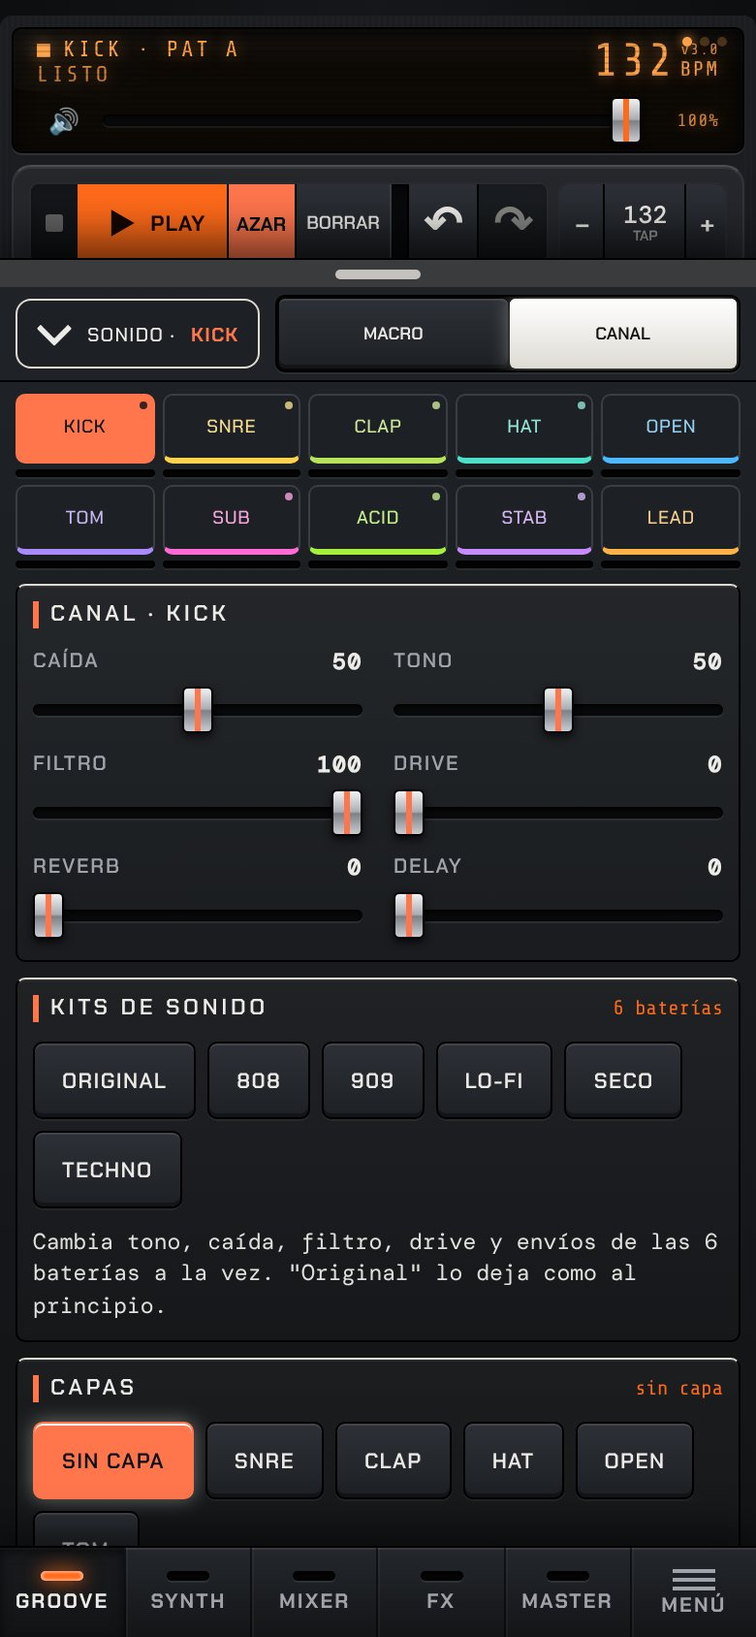
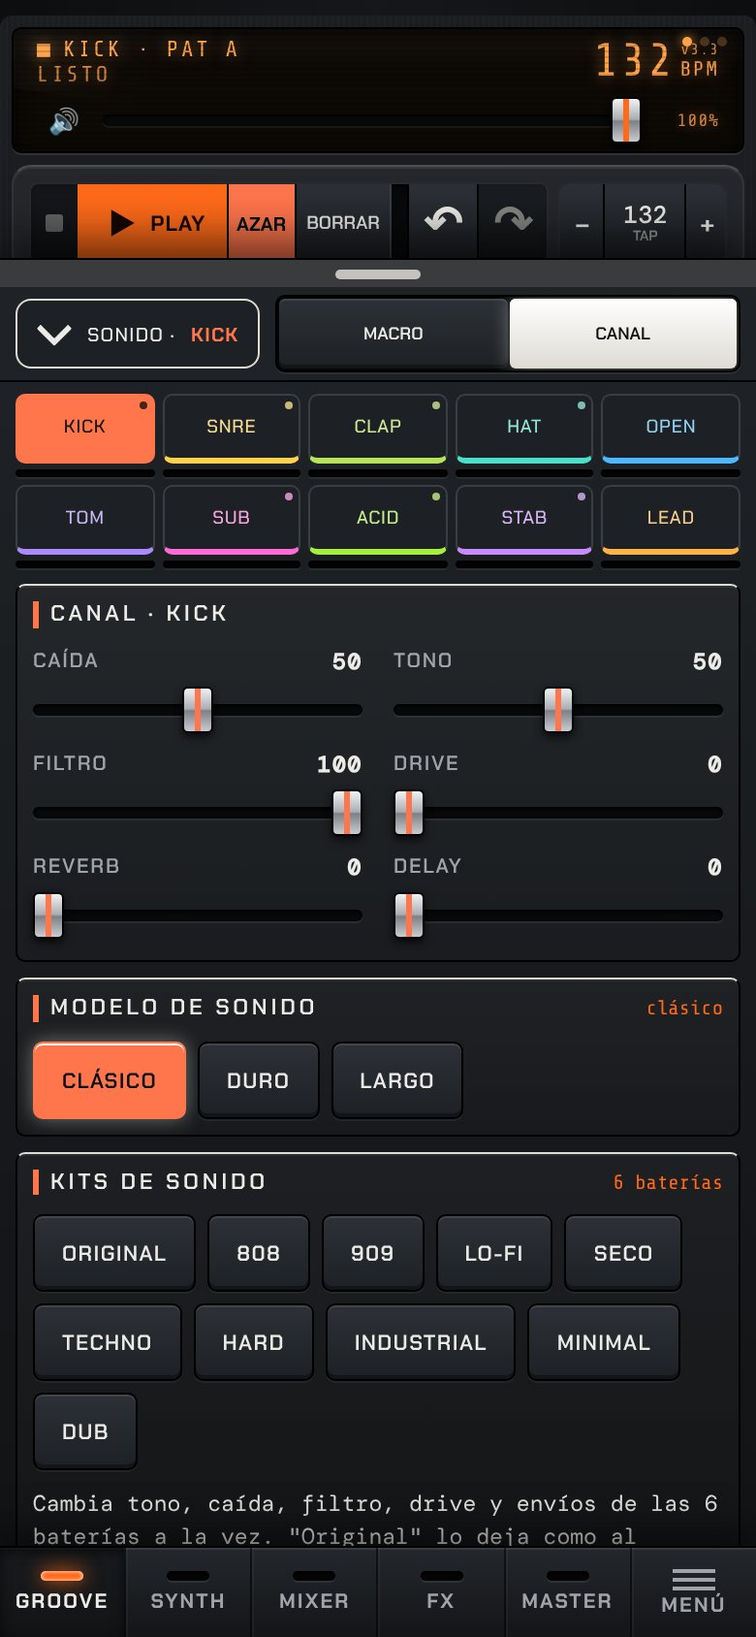
v3.3: modelos de sonido por batería, 4 kits y 12 presets nuevos
- Modelo de sonido en Canal: Kick Clásico/Duro/Largo, Snare
  Clásico/Rimshot, Hat y Open Metal/Ruido, Tom/Cencerro.
- Kits Hard, Industrial, Minimal y Dub (eligen también el modelo).
- Tres presets nuevos para Sub, Acid, Lead y Stab.
- Clave md por canal con migración en fixC; los sonidos de siempre
  no cambian.

Claude-Session: https://claude.ai/code/session_014KBobpF2M55M86nWwyjQnt

diff --git a/app.js b/app.js
@@ -16,6 +16,8 @@ const mf=m=>440*Math.pow(2,(m-69)/12);
 const clamp=(v,a,b)=>Math.max(a,Math.min(b,v));
 const mk=()=>fixP({d:CH.slice(0,6).map(()=>new Array(16).fill(0)),s:new Array(16).fill(-1),sv:new Array(16).fill(2)});
 const NST=32;
+/* v3.3 modelos de sonido de cada batería (clave md del canal; 0 = el sonido de siempre) */
+const MDL=[['Clásico','Duro','Largo'],['Clásico','Rimshot'],['Clásico'],['Metal','Ruido'],['Metal','Ruido'],['Tom','Cencerro']];
 const ok16=(a,f,lo,hi)=>Array.from({length:NST},(_,i)=>{const v=a&&a[i];return typeof v==='number'&&isFinite(v)?Math.max(lo,Math.min(hi,Math.round(v))):f});
 /* per-step extras for all 7 tracks: accent (0/1), ratchet (1-4), nudge (-2..2 eighths of a step). Todas las filas guardan 32 pasos (proyectos de 16 se amplían solos); solo ACID puede usar LEN hasta 32 */
 function fixP(p){p.d=Array.from({length:6},(_,r)=>ok16(p.d&&p.d[r],0,0,3));p.s=ok16(p.s,-1,-1,24);p.sv=ok16(p.sv,2,1,3);
@@ -67,7 +69,7 @@ try{const r=localStorage.getItem('pulsostudio1')||localStorage.getItem('pocketsu
 if(!SKINS.some(s=>s[0]===S.skin))S.skin='stylo';
 P.forEach(fixP);fixSong();C.forEach(fixC);if(!['macro','canal'].includes(S.snd))S.snd='canal';S.dockOpen=!!S.dockOpen;if(!['interactive','balanced','playback'].includes(S.lat))S.lat='balanced';if(!XFD[S.xfade])S.xfade='normal';S.lights=!!S.lights;S.wbit=S.wbit===24?24:16;document.documentElement.dataset.lights=S.lights?'1':'0';S.dockH=Number.isFinite(+S.dockH)&&S.dockH>0?clamp(Math.round(S.dockH),110,900):0;
 S.meq=Object.assign({},EQD,S.meq);
-function fixC(c,i){c.len=clamp(Math.round(+c.len)||16,1,i===ACI?32:16);const l=Math.round(+c.ly);c.ly=i<SUBI&&l>=0&&l<SUBI&&l!==i?l:-1;c.lo=i>=SUBI&&[12,-12,7,24].includes(Math.round(+c.lo))?Math.round(+c.lo):0;c.lv=clamp(Number.isFinite(+c.lv)?+c.lv:.4,0,1)}
+function fixC(c,i){c.len=clamp(Math.round(+c.len)||16,1,i===ACI?32:16);const l=Math.round(+c.ly);c.ly=i<SUBI&&l>=0&&l<SUBI&&l!==i?l:-1;c.lo=i>=SUBI&&[12,-12,7,24].includes(Math.round(+c.lo))?Math.round(+c.lo):0;c.lv=clamp(Number.isFinite(+c.lv)?+c.lv:.4,0,1);const m=Math.round(+c.md);c.md=i<SUBI&&m>0&&m<MDL[i].length?m:0}
 function fixSong(){const g=S.song||{};S.song={on:!!g.on,len:[8,16,32].includes(g.len)?g.len:16,bars:ok16x32(g.bars)};
   const L=S.lanes||{};S.lanes={};LID.forEach(id=>{const x=L[id]||{},d=LANED();S.lanes[id]={bpm:clamp(+x.bpm||120,40,240),loop:[1,2,4,8].includes(x.loop)?x.loop:4,vol:typeof x.vol==='number'?clamp(x.vol,0,1):.8,on:Array.from({length:32},(_,i)=>x.on&&x.on[i]?1:0)}})}
 function ok16x32(a){return Array.from({length:32},(_,i)=>{const v=a&&a[i];return typeof v==='number'&&v>=-1&&v<=3?Math.round(v):(a?-1:SONGD.bars[i])})}
@@ -207,30 +209,40 @@ function choke(v,t){if(!v||v.end<=t)return;v.gs.forEach(g=>{const p=g.gain;if(p.
   v.srcs.forEach(s=>{try{s.stop(t+.03)}catch(e){}});v.end=t}
 const HATR=[2,3,4.16,5.43,6.79,8.21];
 /* one synth graph, used live (fallback) and to pre-render cached voices; lv: 0-2 velocity, 3 accent */
-function synth(x,out,i,t,lv,nz,srcs,pp){const m=.6+pp.tn,dm=.5+pp.dc,pv=1+(lv-2)*.012,bv=[.72,.86,1,1.22][lv];
+function synth(x,out,i,t,lv,nz,srcs,pp){const md=pp.md|0,m=.6+pp.tn,dm=.5+pp.dc,pv=1+(lv-2)*.012,bv=[.72,.86,1,1.22][lv];
   const G=()=>x.createGain(),F=(ty,f,q)=>{const b=x.createBiquadFilter();b.type=ty;b.frequency.value=f;if(q!=null)b.Q.value=q;return b};
   const O=(ty,stp)=>{const o=x.createOscillator();if(ty)o.type=ty;o._stp=stp;srcs.push(o);return o};
   const N=stp=>{const z=x.createBufferSource();z.buffer=nz;z.loop=true;z._stp=stp;z._off=Math.random()*.9;srcs.push(z);return z};
   const E=(g,pk,len,at)=>{g.gain.setValueAtTime(0,t);g.gain.linearRampToValueAtTime(pk,t+(at||.0015));g.gain.exponentialRampToValueAtTime(.001,t+len)};
   let len;
-  if(i===0){len=.42*dm;const f0=42*m*pv,o=O('',len+.05),g=G();
-    o.frequency.setValueAtTime(f0*4.4,t);o.frequency.exponentialRampToValueAtTime(f0*1.8,t+.011);o.frequency.exponentialRampToValueAtTime(f0,t+.075+.06*dm);
+  if(i===0){/* bombo: [barrido inicial, barrido medio, t1, t2, largo, clic] por modelo: clásico, duro (más pegada y clic), largo (más grave y con cola) */
+    const K=[[4.4,1.8,.011,.075,.42,.42,42],[6,2.1,.006,.045,.34,.75,44],[3.4,1.5,.016,.13,.8,.3,37]][md]||[4.4,1.8,.011,.075,.42,.42,42];len=K[4]*dm;const f0=K[6]*m*pv,o=O('',len+.05),g=G();
+    o.frequency.setValueAtTime(f0*K[0],t);o.frequency.exponentialRampToValueAtTime(f0*K[1],t+K[2]);o.frequency.exponentialRampToValueAtTime(f0,t+K[3]+.06*dm);
     E(g,1,len,.0008);o.connect(g);g.connect(out);
-    const n=N(.016),bp=F('bandpass',3600*bv,.8),gc=G();E(gc,.42*bv,.014,.0005);n.connect(bp);bp.connect(gc);gc.connect(out)}
+    const n=N(.016),bp=F('bandpass',3600*bv,.8),gc=G();E(gc,K[5]*bv,.014,.0005);n.connect(bp);bp.connect(gc);gc.connect(out)}
+  else if(i===1&&md===1){/* rimshot: dos tonos cortos y un chasquido de ruido */
+    len=.07*dm+.02;const o=O('',len+.03),g=G();o.frequency.setValueAtTime(1750*m*pv,t);E(g,.55*bv,len*.7,.0004);o.connect(g);g.connect(out);
+    const o2=O('triangle',len+.03),g2=G();o2.frequency.setValueAtTime(470*m*pv,t);E(g2,.6*bv,len,.0004);o2.connect(g2);g2.connect(out);
+    const n=N(.02),hp=F('highpass',3000),gn=G();E(gn,.5*bv,.012,.0004);n.connect(hp);hp.connect(gn);gn.connect(out)}
   else if(i===1){len=.2*dm;const n=N(len+.05),hp=F('highpass',1100*m*(.85+.15*bv)),g=G();E(g,.7*bv,len);n.connect(hp);hp.connect(g);g.connect(out);
     const o=O('triangle',.25),g2=G();o.frequency.setValueAtTime(240*m*pv,t);o.frequency.exponentialRampToValueAtTime(185*m*pv,t+.03);E(g2,.5,.11*dm);o.connect(g2);g2.connect(out)}
   else if(i===2){len=.22*dm;const n=N(len+.08),bp=F('bandpass',1500*m*(.9+.1*bv),1.1),g=G();g.gain.setValueAtTime(0,t);
     [0,.012,.024].forEach(z=>{g.gain.linearRampToValueAtTime(.8,t+z+.001);g.gain.exponentialRampToValueAtTime(.05,t+z+.01)});g.gain.linearRampToValueAtTime(.7,t+.037);g.gain.exponentialRampToValueAtTime(.001,t+.036+len);n.connect(bp);bp.connect(g);g.connect(out)}
+  else if((i===3||i===4)&&md===1){/* hat de ruido: sin componente metálica, más suave y limpio */
+    len=(i===3?.05:.3)*dm;const n=N(len+.02),hp=F('highpass',6500*m),pk=F('peaking',Math.min(17000,9500*m),1.2),g=G();pk.gain.value=6;E(g,.42*bv,len);n.connect(hp);hp.connect(pk);pk.connect(g);g.connect(out)}
   else if(i===3||i===4){len=(i===3?.06:.32)*dm;const mix=G();mix.gain.value=.16;
     HATR.forEach(r=>{const q=O('square',len+.05);q.frequency.value=40*m*r;q.connect(mix)});
     const bp=F('bandpass',Math.min(18000,10000*m*(.9+.1*bv)),.9),hp=F('highpass',7000*m),n=N(len),gn=G();gn.gain.value=.25;n.connect(gn);gn.connect(hp);
     const g=G();E(g,.5,len);mix.connect(bp);bp.connect(hp);hp.connect(g);g.connect(out)}
+  else if(md===1){/* cencerro: dos ondas cuadradas (relación 800/540) por un paso banda, golpe seco y cola corta */
+    len=.28*dm;const f=540*m/1.1*pv,bp=F('bandpass',f*1.75,1.6),g=G();[1,800/540].forEach(r=>{const q=O('square',len+.05);q.frequency.value=f*r;q.connect(bp)});
+    g.gain.setValueAtTime(0,t);g.gain.linearRampToValueAtTime(.5*bv,t+.001);g.gain.exponentialRampToValueAtTime(.16*bv,t+.02);g.gain.exponentialRampToValueAtTime(.001,t+len);bp.connect(g);g.connect(out)}
   else{len=.32*dm;const f0=95*m*pv,o=O('',len+.05),g=G();o.frequency.setValueAtTime(f0*2.6,t);o.frequency.exponentialRampToValueAtTime(f0*1.25,t+.02);o.frequency.exponentialRampToValueAtTime(f0,t+.2);E(g,.9,len);o.connect(g);g.connect(out)}
   srcs.forEach(z=>{if(z._off!=null)z.start(t,z._off);else z.start(t);z.stop(t+z._stp)});
   return len}
 /* voice cache: rendered offline at 4x, soft-saturated, then decimated with a windowed-sinc FIR (no aliasing) */
 const VC=new Map(),NZ=new Map(),FIRS={},SMP=new Array(6).fill(null),SMPN=new Array(6).fill('');let OSF=2;
-const vKey=(i,sr,lv)=>i+'|'+sr+'|'+C[i].tn.toFixed(3)+'|'+C[i].dc.toFixed(3)+'|'+lv;
+const vKey=(i,sr,lv)=>i+'|'+(C[i].md|0)+'|'+sr+'|'+C[i].tn.toFixed(3)+'|'+C[i].dc.toFixed(3)+'|'+lv;
 const RRN=i=>(i>=1&&i<=4)?2:1;
 function fir(f){if(FIRS[f])return FIRS[f];const N=15*f+1|1,h=new Float32Array(N),fc=.45/f;let sm=0;
   for(let k=0;k<N;k++){const q=k-(N-1)/2,w=.42-.5*Math.cos(2*Math.PI*k/(N-1))+.08*Math.cos(4*Math.PI*k/(N-1));h[k]=(q?Math.sin(2*Math.PI*fc*q)/(Math.PI*q):2*fc)*w;sm+=h[k]}
@@ -240,29 +252,29 @@ function decim(d,f){const h=fir(f),N=h.length,hf=(N-1)/2,n=Math.floor(d.length/f
 function noiseFor(x){const r=x.sampleRate;if(NZ.has(r))return NZ.get(r);const b=x.createBuffer(1,r,r),d=b.getChannelData(0);for(let k=0;k<d.length;k++)d[k]=Math.random()*2-1;NZ.set(r,b);return b}
 const SAT=[1.4,1.2,0,0,0,1.3];
 /* v3.2 nivel de cada voz sintetizada (clap, hats) y del stab: antes quedaban 17-25 dB bajo el bombo y el fader no daba para subirlos. Los samples propios no se tocan */
-const VG=[1,1,2.6,3.4,3.4,1],STG=3;
+const VG=[1,1,2.6,3.4,3.4,1],STG=3,VGM={'0|1':.85,'1|1':.85,'3|1':.75,'4|1':1,'5|1':1.5},vg=i=>(C[i].md|0)?(VGM[i+'|'+C[i].md]||VG[i]):VG[i];
 async function renderVoice(i,lv,sr,pp){const OC=window.OfflineAudioContext||window.webkitOfflineAudioContext,dm=.5+pp.dc;OSF=Math.max(1,Math.min(OSF,Math.floor(192000/sr)));
-  const dur=[.42*dm,Math.max(.25,.2*dm),.22*dm+.08,.06*dm,.32*dm,.32*dm][i]+.08;let x,f=OSF;
+  const md=pp.md|0,dur=[[.42,.34,.8][md]*dm,Math.max(.25,.2*dm),.22*dm+.08,.06*dm,.32*dm,.32*dm][i]+.08;let x,f=OSF;
   for(;;){try{x=new OC(1,Math.ceil(dur*sr*f),sr*f);break}catch(e){if(f<=1)throw e;f=f/2;OSF=f}}
   const srcs=[];synth(x,x.destination,i,0,lv,noiseFor(x),srcs,pp);
   const rb=await new Promise((res,rej)=>{x.oncomplete=e=>res(e.renderedBuffer);const p=x.startRendering();if(p&&p.then)p.then(res,rej)});
-  const d=rb.getChannelData(0),k=SAT[i];if(k){const nk=Math.tanh(k);for(let j=0;j<d.length;j++)d[j]=Math.tanh(d[j]*k)/nk}
+  const d=rb.getChannelData(0),k=i===0&&md===1?2.6:md&&i!==0?0:SAT[i];if(k){const nk=Math.tanh(k);for(let j=0;j<d.length;j++)d[j]=Math.tanh(d[j]*k)/nk}
   const o=f>1?decim(d,f):d;let end=o.length;while(end>1&&Math.abs(o[end-1])<3e-5)end--;
   const b=x.createBuffer(1,end,sr);b.getChannelData(0).set(o.subarray(0,end));return b}
 let warming=null,warmAgain=false,wq=0;
 function warmAll(sr){if(warming){warmAgain=true;return warming}
   warming=(async()=>{do{warmAgain=false;const want=new Set();
-    for(let i=0;i<6;i++){if(SMP[i])continue;const pp={tn:C[i].tn,dc:C[i].dc};
+    for(let i=0;i<6;i++){if(SMP[i])continue;const pp={tn:C[i].tn,dc:C[i].dc,md:C[i].md|0};
       for(let lv=0;lv<4;lv++)for(let r=0;r<RRN(i);r++){const k=vKey(i,sr,lv)+'|'+r;want.add(k);if(!VC.has(k)){try{VC.set(k,await renderVoice(i,lv,sr,pp))}catch(e){}}}}
     for(const k of [...VC.keys()])if(!want.has(k))VC.delete(k)}while(warmAgain);warming=null})();return warming}
 function queueWarm(){clearTimeout(wq);wq=setTimeout(()=>{if(LIVE){warmAll(LIVE.sampleRate);warmStab(LIVE.sampleRate)}},150)}
-function drumLive(i,t,v,lv,dest,lay,semi){const d=dst(dest,v*VG[i]),srcs=[],pp=semi?Object.assign({},C[i],{tn:(.6+C[i].tn)*Math.pow(2,semi/12)-.6}):C[i],len=synth(ctx,d,i,t,lv,noise,srcs,pp);srcs.forEach(z=>reg(d,z));if(i===4&&!lay)ohV={gs:[d],srcs,end:t+len+.05}}
+function drumLive(i,t,v,lv,dest,lay,semi){const d=dst(dest,v*vg(i)),srcs=[],pp=semi?Object.assign({},C[i],{tn:(.6+C[i].tn)*Math.pow(2,semi/12)-.6}):C[i],len=synth(ctx,d,i,t,lv,noise,srcs,pp);srcs.forEach(z=>reg(d,z));if(i===4&&!lay)ohV={gs:[d],srcs,end:t+len+.05}}
 function drum(i,t,v,dest,lay,semi){dest=dest==null?i:dest;if(!lay){const L=C[i];if(L.ly>=0&&L.lv>0)drum(L.ly,t,v*L.lv,i,true)}const lv=v<.6?0:v<.9?1:v<1.15?2:3;if(i===3&&!lay)choke(ohV,t);
   const smp=SMP[i];let buf=smp;
   if(!buf){buf=VC.get(vKey(i,ctx.sampleRate,lv)+'|'+(RRN(i)>1&&Math.random()<.5?1:0));if(!buf){queueWarm();return drumLive(i,t,v,lv,dest,lay,semi)}}
   const z=ctx.createBufferSource(),g=ctx.createGain();z.buffer=buf;
   const rate=smp?Math.pow(2,(C[i].tn-.5)*2)*(1+(lv-2)*.008):1+(Math.random()-.5)*.006;z.playbackRate.value=rate*(semi?Math.pow(2,semi/12):1);
-  let dur=buf.duration/(rate*(semi?Math.pow(2,semi/12):1));const gv0=smp?v*.9:v*VG[i];g.gain.setValueAtTime(gv0,t);
+  let dur=buf.duration/(rate*(semi?Math.pow(2,semi/12):1));const gv0=smp?v*.9:v*vg(i);g.gain.setValueAtTime(gv0,t);
   if(smp&&C[i].dc<.97){const L=.03+C[i].dc*C[i].dc*2.2;if(L<dur){g.gain.setValueAtTime(gv0,t+L*.5);g.gain.exponentialRampToValueAtTime(gv0*.001+1e-5,t+L);dur=L+.01}}
   z.connect(g);g.connect(chs[dest].in);z.onended=()=>{try{g.disconnect()}catch(e){}};z.start(t);z.stop(t+dur+.01);
   if(i===4&&!lay)ohV={gs:[g],srcs:[z],end:t+dur}}
@@ -633,19 +645,24 @@ const KITS=[['Original',[[.5,.5,1,0,0,0],[.5,.5,1,0,.2,0],[.5,.5,1,0,.3,0],[.5,.
   ['909',[[.5,.5,1,.35,0,0],[.4,.6,1,.2,.15,0],[.4,.55,1,.15,.25,0],[.2,.7,1,0,0,0],[.45,.65,1,0,.1,.1],[.5,.5,1,.15,0,0]]],
   ['Lo-fi',[[.45,.4,.6,.3,0,0],[.5,.4,.5,.3,.25,0],[.5,.4,.5,.25,.3,.1],[.3,.4,.45,.2,0,0],[.5,.35,.45,.2,.15,.2],[.55,.35,.55,.25,.1,0]]],
   ['Seco',[[.22,.5,1,.1,0,0],[.2,.55,1,.1,0,0],[.2,.5,1,.05,.05,0],[.12,.6,1,0,0,0],[.25,.6,1,0,0,0],[.25,.5,1,.05,0,0]]],
-  ['Techno',[[.6,.45,1,.55,0,0],[.35,.65,1,.3,.1,0],[.35,.6,1,.25,.2,.1],[.15,.8,1,.1,0,0],[.4,.75,1,.15,.1,.2],[.45,.55,1,.3,0,0]]]];
+  ['Techno',[[.6,.45,1,.55,0,0],[.35,.65,1,.3,.1,0],[.35,.6,1,.25,.2,.1],[.15,.8,1,.1,0,0],[.4,.75,1,.15,.1,.2],[.45,.55,1,.3,0,0]]],
+  /* v3.3: el 7.º valor es el modelo de sonido (md) */
+  ['Hard',[[.45,.5,1,.45,0,0,1],[.3,.6,1,.35,.1,0],[.35,.55,1,.3,.2,0],[.12,.85,1,.15,0,0,1],[.35,.8,1,.2,.1,.1,1],[.4,.5,1,.35,0,0]]],
+  ['Industrial',[[.55,.4,.8,.7,.1,0,1],[.5,.4,.7,.6,.3,0],[.5,.4,.7,.5,.4,.1],[.2,.6,.8,.4,0,0],[.5,.55,.8,.4,.2,.2],[.5,.6,.9,.5,.2,.1,1]]],
+  ['Minimal',[[.3,.55,1,.1,0,0],[.3,.6,1,.05,.1,0,1],[.25,.6,1,0,.15,0],[.1,.75,1,0,0,0,1],[.25,.7,1,0,.05,.15,1],[.3,.6,1,0,.1,.2,1]]],
+  ['Dub',[[.7,.4,1,.2,0,0,2],[.4,.5,.8,.1,.45,.3,1],[.45,.45,.8,.1,.5,.35],[.15,.6,.8,0,.1,.25],[.45,.6,.8,0,.3,.4],[.6,.4,.9,.1,.4,.4]]]];
 const KP=['dc','tn','flt','drv','rev','dly'];
-const PRE={[SUBI]:[['Sub sine',{w:'sine',dc:.6,br:.2,gl:0,flt:1,drv:0}],['Saw sucio',{w:'sawtooth',dc:.5,br:.6,gl:0,flt:.6,drv:.35}],['Pluck',{w:'triangle',dc:.25,br:.5,gl:0,flt:1,drv:.1}],['808 largo',{w:'sine',dc:.9,br:.15,gl:.4,flt:1,drv:.2}],['Glide',{w:'square',dc:.55,br:.4,gl:.8,flt:.7,drv:.2}]],
-  [ACI]:[['Clásico',{w:'sawtooth',tn:.35,br:.6,gl:.5,dc:.35,flt:1,drv:.2}],['Squelch',{w:'square',tn:.3,br:.8,gl:.7,dc:.25,flt:1,drv:.3}],['Suave',{w:'sawtooth',tn:.5,br:.3,gl:.3,dc:.5,flt:1,drv:0}],['Duro',{w:'sawtooth',tn:.45,br:.5,gl:.8,dc:.2,flt:1,drv:.6}]],
-  [LEI]:[['Saw lead',{w:'sawtooth',tn:.6,br:.4,gl:.1,dc:.4,flt:1,drv:.1}],['Square',{w:'square',tn:.5,br:.2,gl:0,dc:.3,flt:1,drv:0}],['Pluck',{w:'sawtooth',tn:.45,br:.3,gl:0,dc:.12,flt:1,drv:0}],['Glide',{w:'triangle',tn:.55,br:.5,gl:.8,dc:.5,flt:1,drv:.05}]],
-  [STI]:[['Rave',{tn:.6,dc:.35,br:.4,flt:1,drv:.1,rev:.3,dly:.25}],['Seco corto',{tn:.5,dc:.15,br:.2,rev:.1,dly:0}],['Pad largo',{tn:.35,dc:.9,br:.5,rev:.5,dly:.2}],['Dub',{tn:.4,dc:.5,br:.3,rev:.3,dly:.4}]]};
+const PRE={[SUBI]:[['Sub sine',{w:'sine',dc:.6,br:.2,gl:0,flt:1,drv:0}],['Saw sucio',{w:'sawtooth',dc:.5,br:.6,gl:0,flt:.6,drv:.35}],['Pluck',{w:'triangle',dc:.25,br:.5,gl:0,flt:1,drv:.1}],['808 largo',{w:'sine',dc:.9,br:.15,gl:.4,flt:1,drv:.2}],['Glide',{w:'square',dc:.55,br:.4,gl:.8,flt:.7,drv:.2}],['Rumble',{w:'sine',dc:.95,br:.2,gl:.2,flt:.5,drv:.5}],['Reese',{w:'sawtooth',dc:.7,br:.35,gl:.3,flt:.45,drv:.25}],['Golpe',{w:'square',dc:.2,br:.6,gl:0,flt:.8,drv:.3}]],
+  [ACI]:[['Clásico',{w:'sawtooth',tn:.35,br:.6,gl:.5,dc:.35,flt:1,drv:.2}],['Squelch',{w:'square',tn:.3,br:.8,gl:.7,dc:.25,flt:1,drv:.3}],['Suave',{w:'sawtooth',tn:.5,br:.3,gl:.3,dc:.5,flt:1,drv:0}],['Duro',{w:'sawtooth',tn:.45,br:.5,gl:.8,dc:.2,flt:1,drv:.6}],['Chillón',{w:'square',tn:.55,br:.9,gl:.9,dc:.3,flt:1,drv:.45}],['Burbuja',{w:'sawtooth',tn:.2,br:.85,gl:.6,dc:.15,flt:1,drv:.1}],['Oscuro',{w:'sawtooth',tn:.15,br:.5,gl:.35,dc:.6,flt:.7,drv:.35}]],
+  [LEI]:[['Saw lead',{w:'sawtooth',tn:.6,br:.4,gl:.1,dc:.4,flt:1,drv:.1}],['Square',{w:'square',tn:.5,br:.2,gl:0,dc:.3,flt:1,drv:0}],['Pluck',{w:'sawtooth',tn:.45,br:.3,gl:0,dc:.12,flt:1,drv:0}],['Glide',{w:'triangle',tn:.55,br:.5,gl:.8,dc:.5,flt:1,drv:.05}],['Sirena',{w:'sawtooth',tn:.7,br:.7,gl:.9,dc:.8,flt:1,drv:.2}],['Hoover',{w:'sawtooth',tn:.5,br:1,gl:.5,dc:.6,flt:.9,drv:.3}],['Campana',{w:'triangle',tn:.8,br:.1,gl:0,dc:.25,flt:1,drv:0}]],
+  [STI]:[['Rave',{tn:.6,dc:.35,br:.4,flt:1,drv:.1,rev:.3,dly:.25}],['Seco corto',{tn:.5,dc:.15,br:.2,rev:.1,dly:0}],['Pad largo',{tn:.35,dc:.9,br:.5,rev:.5,dly:.2}],['Dub',{tn:.4,dc:.5,br:.3,rev:.3,dly:.4}],['Techno',{tn:.55,dc:.2,br:.6,flt:1,drv:.3,rev:.25,dly:.3}],['Frío',{tn:.75,dc:.45,br:.15,flt:1,drv:0,rev:.4,dly:.2}],['Detroit',{tn:.45,dc:.6,br:.5,flt:1,drv:.1,rev:.45,dly:.35}]]};
 function renderPresets(){const sub=MEL(S.ch),list=sub?PRE[S.ch]:KITS;
   $('#presetT').textContent=sub?'Presets · '+CH[S.ch][1]:'Kits de sonido';$('#presetN').textContent=sub?'este canal':'6 baterías';
   $('#presetRow').innerHTML=list.map((x,i)=>`<button type="button" class="pre" data-i="${i}">${x[0]}</button>`).join('');
   $('#presetNote').textContent=sub?'Cambia onda, filtro y envolvente de este canal. Ajusta a tu gusto con los mandos.':'Cambia tono, caída, filtro, drive y envíos de las 6 baterías a la vez. "Original" lo deja como al principio.'}
 $('#presetRow').addEventListener('click',e=>{const b=e.target.closest('.pre');if(!b)return;const i=+b.dataset.i,ch=S.ch;
   if(MEL(ch)){const [n,o]=PRE[ch][i];Object.keys(o).forEach(k=>{if(k==='w'){if(ch===ACI)S.awave=o.w;else if(ch===LEI)S.lwave=o.w;else S.wave=o.w}else C[ch][k]=o[k]});flash('PRESET: '+n.toUpperCase())}
-  else{const [n,v]=KITS[i];v.forEach((r,d)=>KP.forEach((k,j)=>{C[d][k]=r[j]}));flash('KIT: '+n.toUpperCase())}
+  else{const [n,v]=KITS[i];v.forEach((r,d)=>{KP.forEach((k,j)=>{C[d][k]=r[j]});C[d].md=r[6]||0});flash('KIT: '+n.toUpperCase())}
   applyAll();queueWarm();renderCanal();audition();save()});
 /* capa: una segunda voz de batería suena a la vez dentro del mismo canal */
 /* capa: una segunda voz suena a la vez dentro del mismo canal (baterías: otra batería; sintes: la misma voz a otra altura) */
@@ -658,7 +675,10 @@ function renderLayer(){const ch=S.ch,mel=MEL(ch),c=C[ch];$('#lyCard').hidden=fal
 $('#lyRow').addEventListener('click',e=>{const b=e.target.closest('.pre');if(!b)return;if(MEL(S.ch))C[S.ch].lo=+b.dataset.i;else C[S.ch].ly=+b.dataset.i;renderLayer();audition();save()});
 $('#lyLv').addEventListener('input',e=>{C[S.ch].lv=e.target.value/100;$('#lyO').textContent=e.target.value;saveSoon()});
 $('#lyLv').addEventListener('change',()=>audition());
-function renderCanal(){const c=C[S.ch],sub=MEL(S.ch);$('#sndCh').textContent=CH[S.ch][1];renderPresets();renderLayer();
+function renderModel(){const ch=S.ch,L=MEL(ch)?[]:MDL[ch],card=$('#mdCard');card.hidden=L.length<2;if(L.length<2)return;const smp=!!SMP[ch];
+  $('#mdRow').innerHTML=L.map((n,i)=>`<button type="button" class="pre" data-i="${i}" aria-pressed="${(C[ch].md|0)===i}">${n}</button>`).join('');$('#mdN').textContent=smp?'no se oye: hay un sample':L[C[ch].md|0].toLowerCase()}
+$('#mdRow').addEventListener('click',e=>{const b=e.target.closest('.pre');if(!b)return;C[S.ch].md=+b.dataset.i;renderModel();queueWarm();audition();save()});
+function renderCanal(){const c=C[S.ch],sub=MEL(S.ch);renderModel();$('#sndCh').textContent=CH[S.ch][1];renderPresets();renderLayer();
   $('#canT').textContent='Canal · '+CH[S.ch][1];$('#canKn').innerHTML=(S.ch===ACI?KA:S.ch===STI?KB:S.ch===LEI?KL:sub?KS:KD).map(([k,l])=>kn('c_'+k,l,c[k])).join('');
   const sc=$('#scTog');sc.hidden=S.ch===0;sc.setAttribute('aria-pressed',!!c.sc);$('#subx').hidden=!sub;$('#smpx').hidden=sub;$('#smpN').textContent=(!sub&&SMPN[S.ch])||'Sintetizado';$('#smpX').disabled=sub||!SMP[S.ch];
   const wv=S.ch===ACI?S.awave:S.ch===LEI?S.lwave:S.wave;$('#waves').hidden=S.ch===STI;$$('#waves button').forEach(b=>{b.setAttribute('aria-pressed',b.dataset.w===wv);b.hidden=S.ch===ACI&&(b.dataset.w==='sine'||b.dataset.w==='triangle')});

diff --git a/index.html b/index.html
@@ -1,4 +1,4 @@
-<!doctype html><html><head><meta charset=utf8><meta name=viewport content="width=device-width,initial-scale=1,viewport-fit=cover"><meta name="theme-color" content="#0c0d0f"><meta name="mobile-web-app-capable" content="yes"><meta name="apple-mobile-web-app-capable" content="yes"><meta name="apple-mobile-web-app-status-bar-style" content="black-translucent"><link rel="manifest" href="./manifest.webmanifest"><link rel="icon" href="./icon.svg" type="image/svg+xml"><link rel="stylesheet" href="./styles.css?v=3.2">
+<!doctype html><html><head><meta charset=utf8><meta name=viewport content="width=device-width,initial-scale=1,viewport-fit=cover"><meta name="theme-color" content="#0c0d0f"><meta name="mobile-web-app-capable" content="yes"><meta name="apple-mobile-web-app-capable" content="yes"><meta name="apple-mobile-web-app-status-bar-style" content="black-translucent"><link rel="manifest" href="./manifest.webmanifest"><link rel="icon" href="./icon.svg" type="image/svg+xml"><link rel="stylesheet" href="./styles.css?v=3.3">
 <title>Pulso Studio · Tu groovebox en el móvil</title>
 <meta name="description" content="Secuenciador de 16 pasos y pads para crear ritmos desde el móvil. Por Pulso Lab.">
 <meta property="og:type" content="website">
@@ -25,7 +25,7 @@
     <div class="head">
       <div class="lcd" id="lcd" data-v="info" role="button" tabindex="0" aria-label="Cambiar pantalla: info, onda o espectro">
         <div class="l1" id="l1">■ KICK · PAT A</div>
-        <div class="big"><span id="lb">132</span><small>BPM</small><span class="ver" aria-label="Versión v3.2">v3.2</span></div>
+        <div class="big"><span id="lb">132</span><small>BPM</small><span class="ver" aria-label="Versión v3.3">v3.3</span></div>
         <div class="l2" id="l2">LISTO</div><div class="lsteps" id="lsteps" aria-hidden="true"></div><canvas id="scope" aria-hidden="true"></canvas><span class="md" id="md"></span><span class="ldots" aria-hidden="true"><i></i><i></i><i></i></span>
         <div class="lvol" id="lvol"><button type="button" id="lmute" aria-label="Silenciar" aria-pressed="false">🔊</button><input id="lvr" type="range" min="0" max="100" step="1" value="100" aria-label="Volumen de escucha"><output id="lvo" for="lvr">100%</output></div>
       </div>
@@ -252,6 +252,10 @@
         <div class="hd2"><h3 id="canT">Canal · KICK</h3><button class="tg" id="scTog" aria-pressed="false">Sidechain</button></div>
         <div class="knobs" id="canKn"></div>
       </div>
+      <div class="card" id="mdCard" hidden>
+        <div class="hd2"><h3>Modelo de sonido</h3><span class="smpn" id="mdN"></span></div>
+        <div class="presets" id="mdRow" role="group" aria-label="Modelo de sonido de esta batería"></div>
+      </div>
       <div class="card" id="presetCard">
         <div class="hd2"><h3 id="presetT">Kits de sonido</h3><span class="smpn" id="presetN">6 baterías</span></div>
         <div class="presets" id="presetRow" role="group" aria-label="Presets de sonido"></div>
@@ -307,6 +311,6 @@
   
 </main>
 
-<script src="./app.js?v=3.2"></script>
+<script src="./app.js?v=3.3"></script>
 
 </body></html>

diff --git a/CHANGELOG.md b/CHANGELOG.md
@@ -587,6 +587,14 @@ Mejoras previstas: 1) pantalla completa y pestañas abajo, 2) gestos y vibració
 - OJO: los proyectos anteriores se abren igual, pero sonarán distinto: más fuertes, con hats, clap y stab más presentes, y más bajos si llevaban el compresor encendido. No cambia el formato de guardado.
 - Para revertir: git revert del commit v3.2.
 
+## v3.3 (2026-11-11) — Claude
+- Modelos de sonido por batería (Sonido > Canal > "Modelo de sonido"): Kick Clásico, Duro o Largo; Snare Clásico o Rimshot; Hat y Open Metal o Ruido; Tom o Cencerro. El primero de cada lista es el sonido de siempre, así que nada cambia si no lo tocas.
+- Cuatro kits nuevos: Hard, Industrial, Minimal y Dub. Los kits ahora también eligen el modelo de cada batería (los antiguos lo dejan en el clásico).
+- Doce presets nuevos: Sub (Rumble, Reese, Golpe), Acid (Chillón, Burbuja, Oscuro), Lead (Sirena, Hoover, Campana) y Stab (Techno, Frío, Detroit).
+- El modelo es del proyecto: clave md de cada canal, viaja en el .json y en el código PS1. Los proyectos anteriores no la tienen y se abren con el clásico (migración en fixC).
+- Medido exportando cada modelo en solo: todos suenan, sin errores, a un nivel parecido al del clásico de su canal. No están escuchados.
+- Para revertir: git revert del commit v3.3.
+
 ## Manual (2026-10-31) — Claude
 - Manual actualizado a la v2.86: capturas nuevas de todas las pantallas (390x844 a doble resolucion) y secciones nuevas o reescritas de Transporte (Stop, Pausa, Azar que muta), Pads (Bateria y Notas), Piano roll, Mix (Limitador con Techo y Entrada, Master tumbado), FX, EQ y Consejos.
 - Galeria de vistas justo despues del indice: 12 miniaturas rotuladas (Crear: Secuenciador, Modos de paso, Pads Bateria, Pads Notas, Piano roll melodico y de bateria; Panel Sonido: Macro, Canal, Mix, Mix con master desplegado, FX y EQ). Cada una lleva a su seccion. En GitHub se ve como tabla y en manual.html como cuadricula de 2 o 3 columnas.

diff --git a/MANUAL.md b/MANUAL.md
@@ -231,6 +231,8 @@ Todo sobre el canal que has elegido.
 - **Sample propio:** carga un audio de hasta 8 segundos. Se guarda en este móvil.
 - **Mis kits guardados:** guarda y recupera tus ajustes de baterías.
 - **SUB y sintes:** onda (Sin, Tri, Saw, Sqr), tono y escala, y **Capa +1 octava**.
+- **Modelo de sonido (baterías):** cada batería puede cambiar de timbre sin cambiar de canal. **Kick:** Clásico, Duro (más pegada y clic) o Largo (más grave y con cola). **Snare:** Clásico o Rimshot. **Hat y Open:** Metal o Ruido (más suave). **Tom:** Tom o Cencerro. Clásico, Metal y Tom son los sonidos de siempre. El modelo viaja con el proyecto; si el canal tiene un sample propio, suena el sample.
+- **Kits y presets:** además de Original, 808, 909, Lo-fi, Seco y Techno hay cuatro kits nuevos (**Hard, Industrial, Minimal y Dub**) que también eligen el modelo de cada batería. Sub, Acid, Stab y Lead tienen tres presets nuevos cada uno.
 
 ### 8.3 Mixer y Master
 
